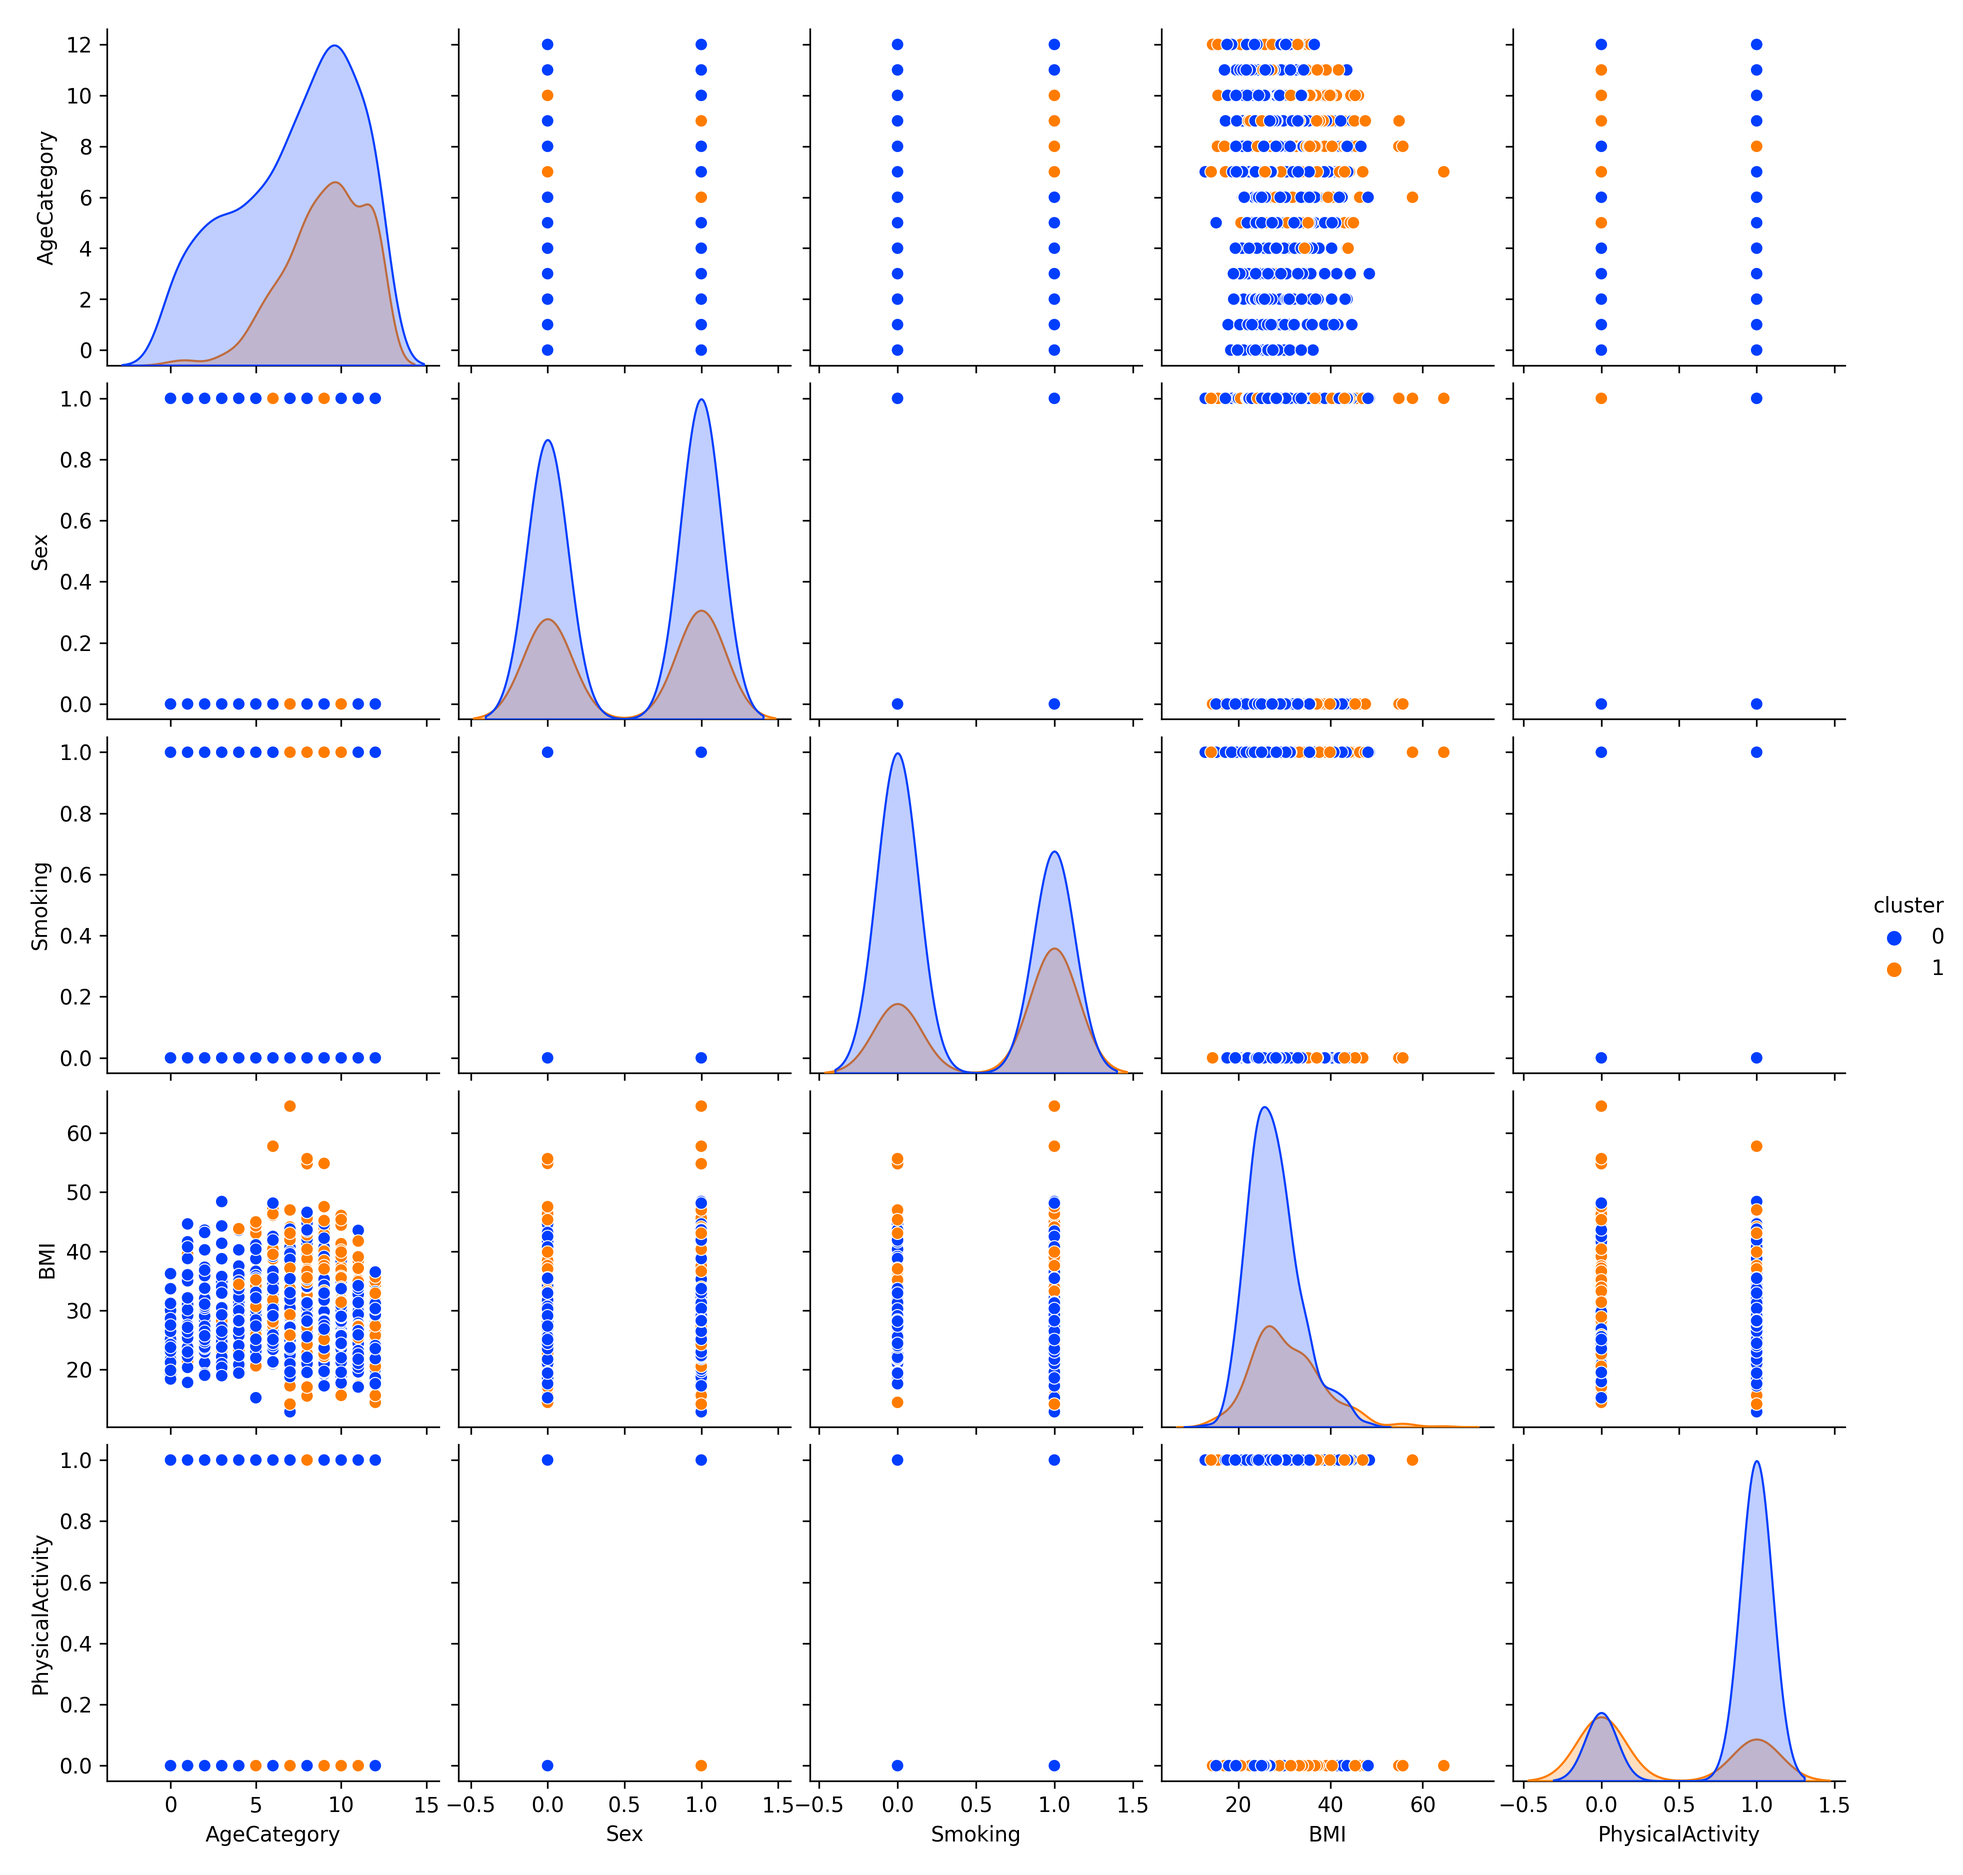
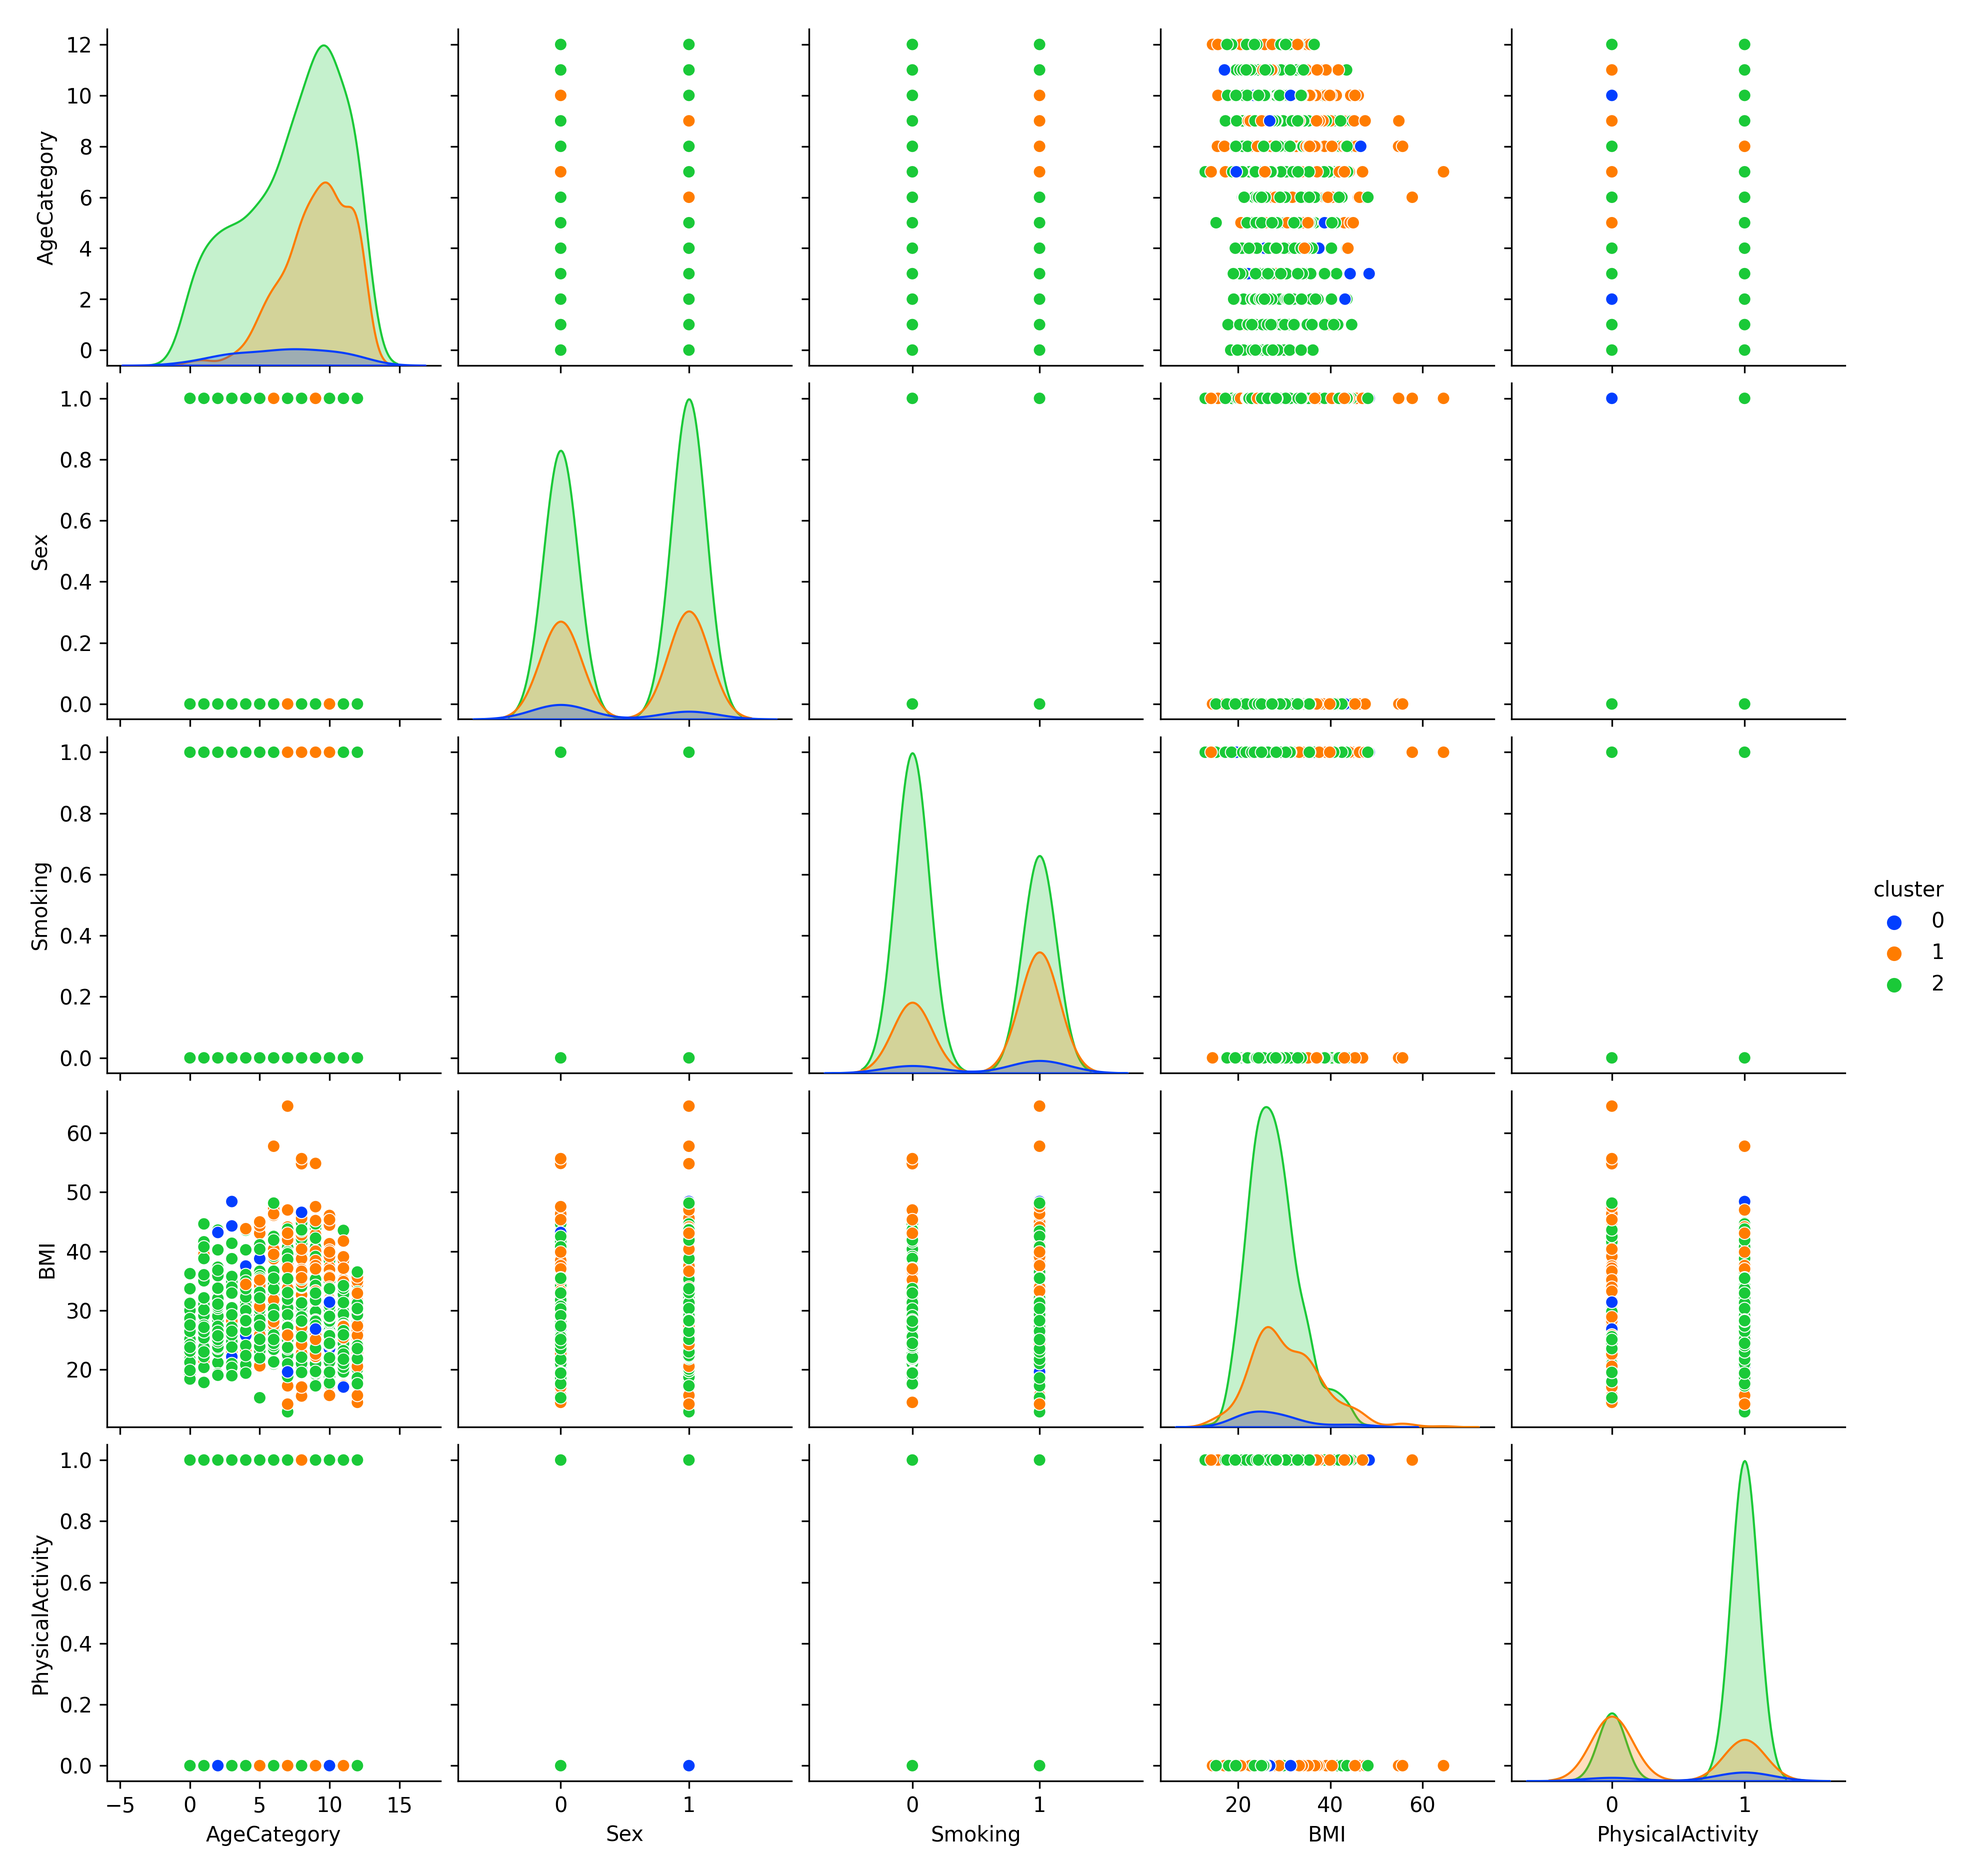
final part 1 changes

diff --git a/experiments.py b/experiments.py
@@ -380,8 +380,8 @@ class experiments:
             self.plot_cluster_results(data_set, 'K-Means', kmeans_results)
             self.plot_cluster_results(data_set, 'Expectation Maximization', em_results)
 
-            # best_kmeans_n = kmeans_results.query('silhouette == silhouette.max()').clusters[0]
-            # best_em_n = em_results.query('silhouette == silhouette.max()').clusters[0]
+            best_kmeans_n = kmeans_results.query('silhouette == silhouette.max()').clusters[0]
+            best_em_n = em_results.query('silhouette == silhouette.max()').clusters[0]
 
             if data_set == 'Heart Data':
                 x_vars = ['AgeCategory', 'Sex', 'Smoking', 'BMI', 'PhysicalActivity']
@@ -390,7 +390,7 @@ class experiments:
                 x_vars = ['Rainfall', 'Sunshine', 'RainToday', 'Temp3pm', 'Humidity3pm']
                 y_vars = x_vars
 
-            kmeans = KMeans(init="k-means++", n_clusters=2, n_init=10, random_state=self.random_seed)
+            kmeans = KMeans(init="k-means++", n_clusters=best_kmeans_n, n_init=10, random_state=self.random_seed)
             kmeans.fit(scaled_data)
             kmeans_pred = kmeans.predict(scaled_data)
             data_kmeans = data.copy()
@@ -403,14 +403,14 @@ class experiments:
             self.write_to_output(100 * "_")
             self.write_to_output("K-Means Centers")
             self.write_to_output(kmeans_centers.to_string(header=True, index=False))
+            kmeans_cm = pd.DataFrame(metrics.cluster.contingency_matrix(labels, kmeans_pred))
 
-            kmeans_cm = pd.DataFrame(metrics.cluster.pair_confusion_matrix(labels, kmeans_pred))
             self.write_to_output(100 * "_")
-            self.write_to_output("K-Means Confusion Matrix")
+            self.write_to_output("K-Means Contingency Matrix")
             self.write_to_output(kmeans_cm.to_string(header=True, index=False))
             self.write_to_output(100 * "_")
 
-            em = GaussianMixture(n_components=2, random_state=self.random_seed)
+            em = GaussianMixture(n_components=best_em_n, random_state=self.random_seed)
             em.fit(scaled_data)
             em_pred = em.predict(scaled_data)
             data_em = data.copy()
@@ -424,9 +424,9 @@ class experiments:
             self.write_to_output("EM Means")
             self.write_to_output(em_means.to_string(header=True, index=False))
 
-            em_cm = pd.DataFrame(metrics.cluster.pair_confusion_matrix(labels, em_pred))
+            em_cm = pd.DataFrame(metrics.cluster.contingency_matrix(labels, em_pred))
             self.write_to_output(100 * "_")
-            self.write_to_output("EM Confusion Matrix")
+            self.write_to_output("EM Contingency Matrix")
             self.write_to_output(em_cm.to_string(header=True, index=False))
             self.write_to_output(100 * "_")
 
